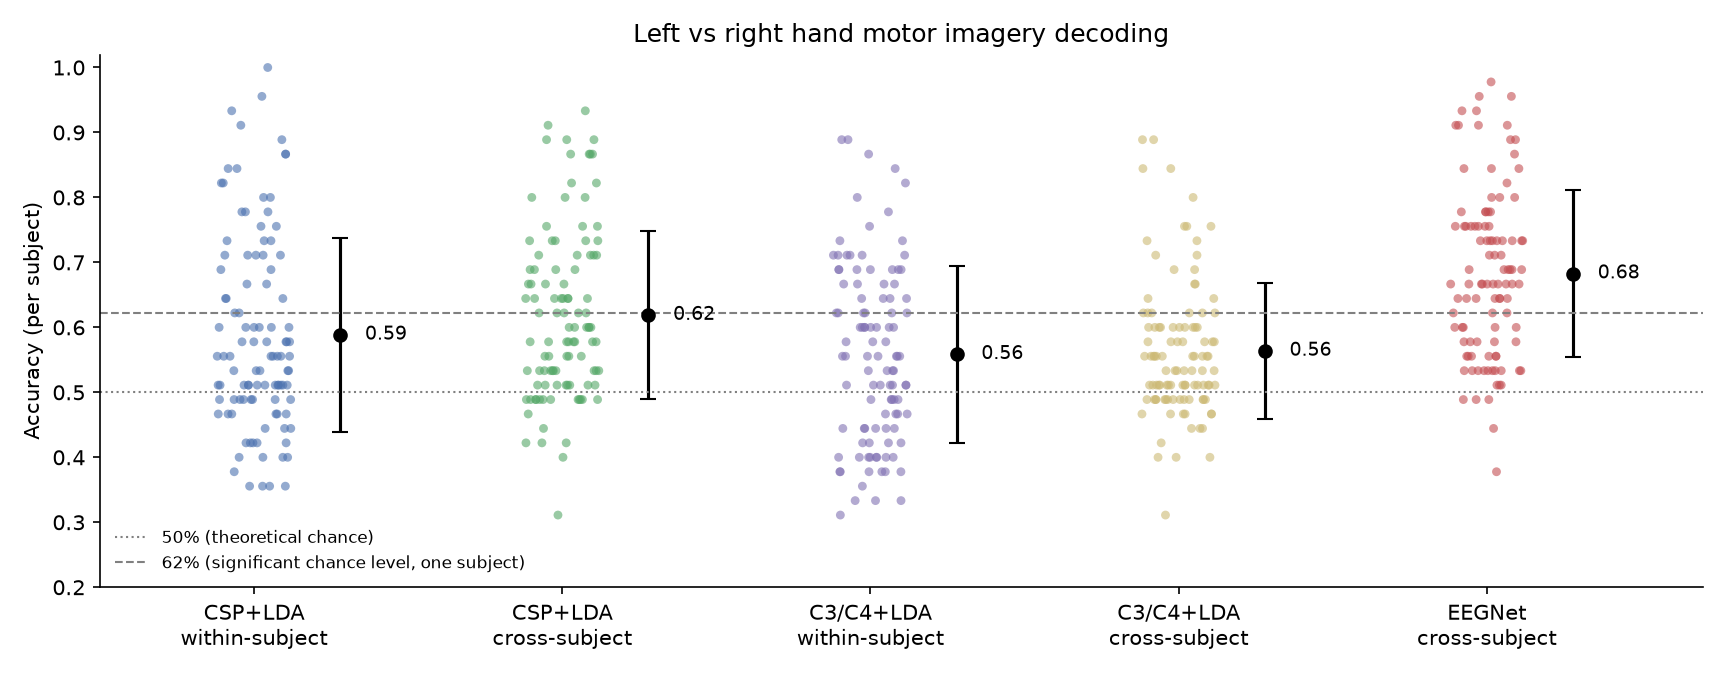
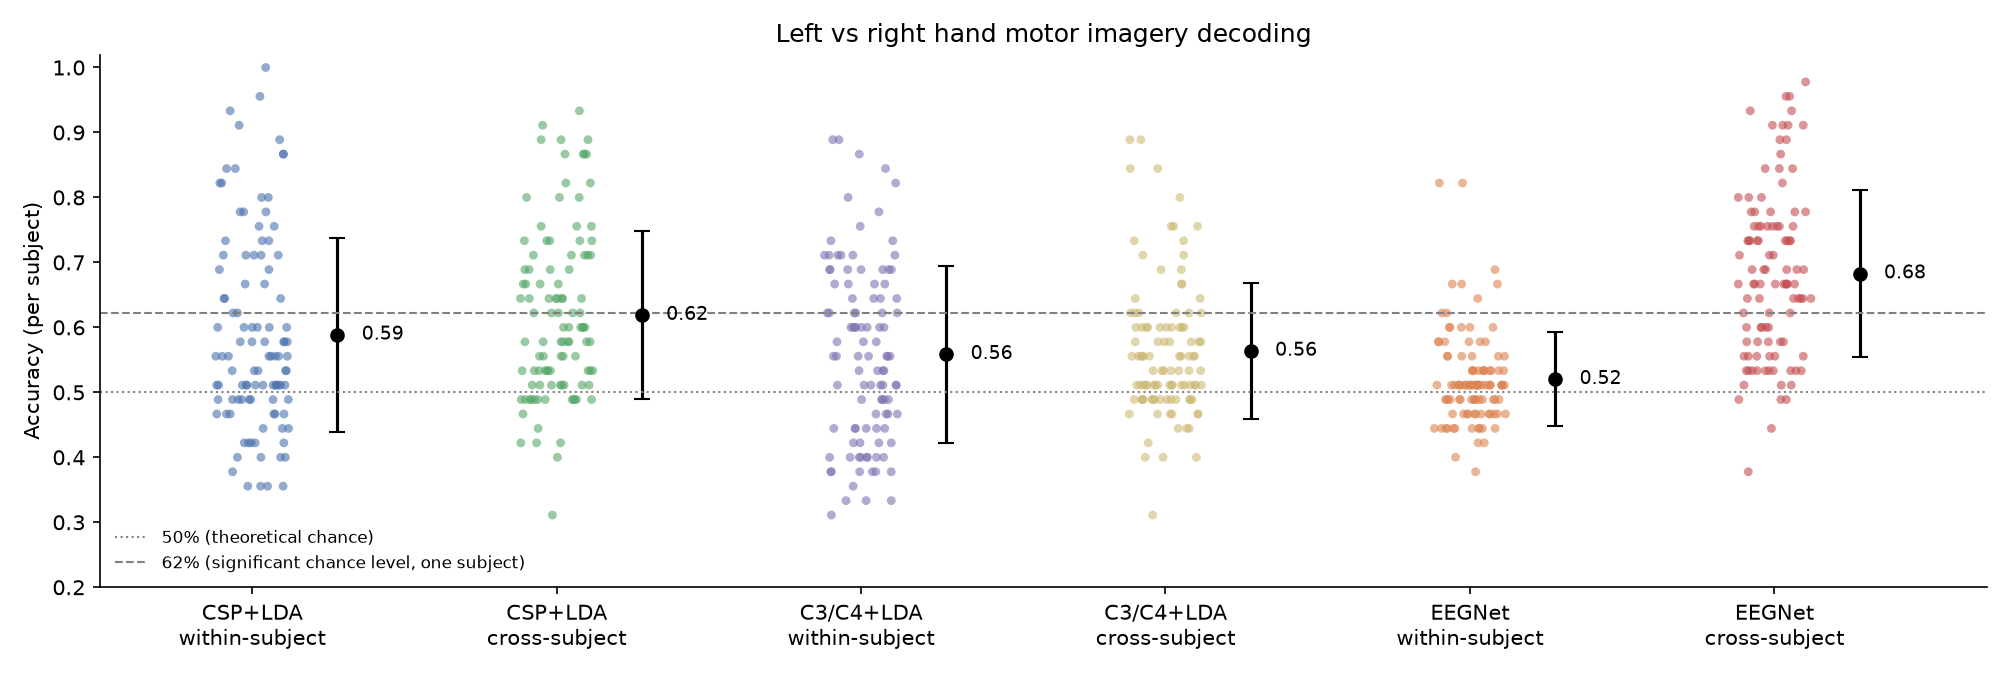
Add within-subject EEGNet and paired Wilcoxon tests between methods
EEGNet within-subject (36 training trials per fold) reaches 52.0%, below
CSP+LDA within (58.9%) and far below cross-subject EEGNet (68.3%).
New 'compare' and 'add-eegnet-within' commands; Holm-corrected Wilcoxon
signed-rank tests across 104 subjects saved in results.json.

diff --git a/src/eegdecode/cli.py b/src/eegdecode/cli.py
@@ -2,6 +2,8 @@
 
     eegdecode run --config configs/default.yaml
     eegdecode run --config configs/default.yaml --subjects 1-5 --skip-eegnet
+    eegdecode add-eegnet-within --config configs/default.yaml --subjects 1-109
+    eegdecode compare results/results.json
 """
 from __future__ import annotations
 
@@ -16,7 +18,7 @@ import numpy as np
 import yaml
 
 from .data import load_dataset, parse_subjects
-from .evaluate import clone_factory, cross_subject, within_subject
+from .evaluate import clone_factory, compare_methods, cross_subject, format_tests, within_subject
 from .models import EEGNetClassifier, make_c3c4_lda, make_csp_lda
 from .plots import plot_results
 
@@ -59,6 +61,7 @@ def run(cfg: dict, skip_eegnet: bool = False) -> dict:
                                               ev["cross_folds"])
 
     if not skip_eegnet:
+        results["eegnet_within"] = _eegnet_within(X, y, groups, cfg)
         eegnet = EEGNetClassifier(seed=cfg["seed"], **cfg["eegnet"])
         print("EEGNet, cross-subject ...")
         results["eegnet_cross"] = cross_subject(X, y, groups, clone_factory(eegnet),
@@ -71,14 +74,53 @@ def run(cfg: dict, skip_eegnet: bool = False) -> dict:
         "n_trials": len(y),
         "subjects": subjects,
         "results": results,
+        "tests": compare_methods(results),
     }
-    (out_dir / "results.json").write_text(json.dumps(summary, indent=2))
-    plot_results(results, out_dir / "accuracy_by_subject.png")
+    _save(summary, out_dir)
 
     print("\nSummary")
     for name, r in results.items():
         print(f"  {name:18s} {r['mean_accuracy']:.3f} ± {r['std_accuracy']:.3f}")
     print(f"Saved results to {out_dir}/")
+    return summary
+
+
+def _eegnet_within(X, y, groups, cfg: dict) -> dict:
+    """EEGNet trained and tested on each person separately (5-fold CV per person).
+    Settings in `eegnet_within` override `eegnet`; with only ~36 training trials,
+    Lawhern et al. (2018) suggest a higher dropout (0.5) for within-subject use."""
+    params = {**cfg["eegnet"], **cfg.get("eegnet_within", {})}
+    eegnet = EEGNetClassifier(seed=cfg["seed"], **params)
+    print("EEGNet, within-subject ...", flush=True)
+    r = within_subject(X, y, groups, clone_factory(eegnet), cfg["evaluation"]["within_folds"],
+                       cfg["seed"])
+    print(f"  mean accuracy {r['mean_accuracy']:.3f}")
+    return r
+
+
+def _save(summary: dict, out_dir: Path) -> None:
+    (out_dir / "results.json").write_text(json.dumps(summary, indent=2))
+    plot_results(summary["results"], out_dir / "accuracy_by_subject.png")
+    print("\nPaired Wilcoxon signed-rank tests across subjects")
+    print(format_tests(summary["tests"]))
+
+
+def add_eegnet_within(cfg: dict) -> dict:
+    """Add the EEGNet within-subject result to an existing results.json, without
+    re-running the other methods (which takes hours for all subjects)."""
+    import mne
+
+    mne.set_log_level("WARNING")
+    out_dir = Path(cfg.get("output_dir", "results"))
+    summary = json.loads((out_dir / "results.json").read_text())
+    subjects = parse_subjects(cfg["data"]["subjects"])
+    if subjects != summary["subjects"]:
+        raise ValueError(f"{out_dir}/results.json was made with different subjects; "
+                         "pass the same --subjects as the original run")
+    X, y, groups = load_dataset(subjects, cfg["data"])
+    summary["results"]["eegnet_within"] = _eegnet_within(X, y, groups, cfg)
+    summary["tests"] = compare_methods(summary["results"])
+    _save(summary, out_dir)
     return summary
 
 
@@ -90,13 +132,29 @@ def main(argv: list[str] | None = None) -> None:
     p.add_argument("--config", default="configs/default.yaml")
     p.add_argument("--subjects", help='Override subjects, e.g. "1-5" or "1,2,7"')
     p.add_argument("--skip-eegnet", action="store_true", help="Only run CSP+LDA (fast)")
+    w = sub.add_parser("add-eegnet-within",
+                       help="Add EEGNet within-subject results to an existing results.json")
+    w.add_argument("--config", default="configs/default.yaml")
+    w.add_argument("--subjects", help="Must match the subjects of the existing run")
+    c = sub.add_parser("compare", help="Wilcoxon tests between methods from a results.json")
+    c.add_argument("results", nargs="?", default="results/results.json")
     args = parser.parse_args(argv)
+
+    if args.command == "compare":
+        summary = json.loads(Path(args.results).read_text())
+        summary["tests"] = compare_methods(summary["results"])
+        Path(args.results).write_text(json.dumps(summary, indent=2))
+        print(format_tests(summary["tests"]))
+        return
 
     cfg = yaml.safe_load(Path(args.config).read_text())
     if args.subjects:
         cfg["data"]["subjects"] = args.subjects
     start = time.time()
-    run(cfg, skip_eegnet=args.skip_eegnet)
+    if args.command == "add-eegnet-within":
+        add_eegnet_within(cfg)
+    else:
+        run(cfg, skip_eegnet=args.skip_eegnet)
     print(f"Done in {(time.time() - start) / 60:.1f} min")
 
 

diff --git a/src/eegdecode/evaluate.py b/src/eegdecode/evaluate.py
@@ -11,7 +11,7 @@ import inspect
 from collections.abc import Callable
 
 import numpy as np
-from scipy.stats import binom
+from scipy.stats import binom, wilcoxon
 from sklearn.base import clone
 from sklearn.model_selection import GroupKFold, StratifiedKFold
 
@@ -81,3 +81,59 @@ def cross_subject(X, y, groups, make_model: Callable, n_splits: int = 5) -> dict
 def clone_factory(estimator) -> Callable:
     """Return a function that gives a fresh, unfitted copy of `estimator`."""
     return lambda: clone(estimator)
+
+
+# Pairs of methods compared across subjects. Each pair is tested only if both are in the results.
+DEFAULT_PAIRS = [
+    ("eegnet_cross", "csp_lda_cross"),
+    ("eegnet_cross", "c3c4_lda_cross"),
+    ("csp_lda_cross", "c3c4_lda_cross"),
+    ("eegnet_within", "csp_lda_within"),
+    ("csp_lda_within", "c3c4_lda_within"),
+    ("csp_lda_within", "csp_lda_cross"),
+    ("eegnet_within", "eegnet_cross"),
+]
+
+
+def compare_methods(results: dict, pairs=DEFAULT_PAIRS) -> list[dict]:
+    """Two-sided Wilcoxon signed-rank test between methods, paired by subject.
+
+    Each subject contributes one accuracy per method, so the test asks whether one
+    method is consistently better across people. p-values are Holm-corrected for the
+    number of pairs tested.
+    """
+    tests = []
+    for a, b in pairs:
+        if a not in results or b not in results:
+            continue
+        pa, pb = results[a]["per_subject"], results[b]["per_subject"]
+        subjects = sorted(set(map(int, pa)) & set(map(int, pb)))
+        xa = np.array([pa[s] if s in pa else pa[str(s)] for s in subjects])
+        xb = np.array([pb[s] if s in pb else pb[str(s)] for s in subjects])
+        diff = xa - xb
+        if len(subjects) < 2 or np.all(diff == 0):
+            stat, p = float("nan"), 1.0
+        else:
+            stat, p = wilcoxon(xa, xb, zero_method="wilcox")
+        tests.append({"a": a, "b": b, "n_subjects": len(subjects),
+                      "mean_a": float(xa.mean()), "mean_b": float(xb.mean()),
+                      "median_difference": float(np.median(diff)),
+                      "a_better_in": int((diff > 0).sum()), "b_better_in": int((diff < 0).sum()),
+                      "W": float(stat), "p": float(p)})
+    # Holm-Bonferroni correction
+    order = np.argsort([t["p"] for t in tests])
+    running = 0.0
+    for rank, i in enumerate(order):
+        running = max(running, min(1.0, (len(tests) - rank) * tests[i]["p"]))
+        tests[i]["p_holm"] = running
+    return tests
+
+
+def format_tests(tests: list[dict]) -> str:
+    lines = [f"{'A':16s} {'B':16s} {'n':>4s} {'mean A':>7s} {'mean B':>7s} "
+             f"{'A>B':>4s} {'B>A':>4s} {'W':>8s} {'p':>9s} {'p(Holm)':>9s}"]
+    for t in tests:
+        lines.append(f"{t['a']:16s} {t['b']:16s} {t['n_subjects']:4d} {t['mean_a']:7.3f} "
+                     f"{t['mean_b']:7.3f} {t['a_better_in']:4d} {t['b_better_in']:4d} "
+                     f"{t['W']:8.1f} {t['p']:9.2g} {t['p_holm']:9.2g}")
+    return "\n".join(lines)

diff --git a/tests/test_pipeline.py b/tests/test_pipeline.py
@@ -7,7 +7,13 @@ import numpy as np
 import pytest
 
 from eegdecode.data import EXCLUDED_SUBJECTS, parse_subjects
-from eegdecode.evaluate import chance_level, clone_factory, cross_subject, within_subject
+from eegdecode.evaluate import (
+    chance_level,
+    clone_factory,
+    compare_methods,
+    cross_subject,
+    within_subject,
+)
 from eegdecode.models import EEGNetClassifier, _scale, make_c3c4_lda, make_csp_lda
 
 SFREQ = 128
@@ -164,7 +170,9 @@ def test_cli_run_end_to_end(tmp_path, monkeypatch):
     assert (tmp_path / "results.json").exists()
     assert (tmp_path / "accuracy_by_subject.png").exists()
     assert set(summary["results"]) == {"csp_lda_within", "csp_lda_cross", "c3c4_lda_within",
-                                       "c3c4_lda_cross", "eegnet_cross"}
+                                       "c3c4_lda_cross", "eegnet_within", "eegnet_cross"}
+    pairs = {(t["a"], t["b"]) for t in summary["tests"]}
+    assert ("eegnet_cross", "csp_lda_cross") in pairs and ("eegnet_within", "eegnet_cross") in pairs
 
 
 def test_load_subject_preprocessing_offline(monkeypatch):
@@ -198,3 +206,20 @@ def test_load_subject_preprocessing_offline(monkeypatch):
     assert X.shape == (3 * n_trials, 64, 257)  # 2 s at 128 Hz, inclusive
     assert set(np.unique(y)) == {0, 1}
     assert X.dtype == np.float32
+
+
+def test_compare_methods_finds_consistently_better_method():
+    rng = np.random.default_rng(0)
+    base = rng.uniform(0.5, 0.7, 30)
+    results = {"csp_lda_cross": {"per_subject": {s: float(a) for s, a in enumerate(base)}},
+               "eegnet_cross": {"per_subject": {str(s): float(a + 0.05 + rng.uniform(0, 0.02))
+                                                for s, a in enumerate(base)}},
+               "c3c4_lda_cross": {"per_subject": {s: float(a + rng.normal(0, 0.05))
+                                                  for s, a in enumerate(base)}}}
+    tests = {(t["a"], t["b"]): t for t in compare_methods(results)}
+    assert set(tests) == {("eegnet_cross", "csp_lda_cross"), ("eegnet_cross", "c3c4_lda_cross"),
+                          ("csp_lda_cross", "c3c4_lda_cross")}
+    better = tests[("eegnet_cross", "csp_lda_cross")]
+    assert better["a_better_in"] == 30 and better["p_holm"] < 0.001
+    assert tests[("csp_lda_cross", "c3c4_lda_cross")]["p_holm"] > 0.05
+    assert all(t["p_holm"] >= t["p"] for t in tests.values())

diff --git a/src/eegdecode/plots.py b/src/eegdecode/plots.py
@@ -14,11 +14,12 @@ LABELS = {
     "csp_lda_cross": "CSP+LDA\ncross-subject",
     "c3c4_lda_within": "C3/C4+LDA\nwithin-subject",
     "c3c4_lda_cross": "C3/C4+LDA\ncross-subject",
+    "eegnet_within": "EEGNet\nwithin-subject",
     "eegnet_cross": "EEGNet\ncross-subject",
 }
 COLORS = {"csp_lda_within": "#4C72B0", "csp_lda_cross": "#55A868",
           "c3c4_lda_within": "#8172B3", "c3c4_lda_cross": "#CCB974",
-          "eegnet_cross": "#C44E52"}
+          "eegnet_within": "#DD8452", "eegnet_cross": "#C44E52"}
 
 
 def plot_results(results: dict, path: str | Path) -> None:

diff --git a/docs/REPORT.md b/docs/REPORT.md
@@ -20,9 +20,9 @@ Preprocessing used MNE-Python (Gramfort et al., 2013). I band-pass filtered at 7
 
 **C3/C4 + LDA.** LDA classifies one feature: the log-power difference between electrodes C3 and C4, which sit over the left and right hand areas of the motor cortex. It has no learned spatial filters, so it shows how far known physiology goes on its own. I added it after a 5-subject pilot suggested it might do well, and before running the larger experiments.
 
-**EEGNet-8,2** (Lawhern et al., 2018). A temporal convolution learns frequency filters and a depthwise convolution learns spatial filters for each of them. A separable convolution then combines these features over time. It was built with Keras 3 on PyTorch and trained for a fixed 100 epochs on the CPU, with dropout of 0.25. Inputs were divided by one scale factor computed on the training data, which keeps the power differences between channels that carry the signal.
+**EEGNet-8,2** (Lawhern et al., 2018). A temporal convolution learns frequency filters and a depthwise convolution learns spatial filters for each of them. A separable convolution then combines these features over time. It was built with Keras 3 on PyTorch and trained for a fixed 100 epochs on the CPU, with dropout of 0.25 (0.5 for within-subject, where each model has only 36 training trials). Inputs were divided by one scale factor computed on the training data, which keeps the power differences between channels that carry the signal.
 
-**Evaluation.** Within-subject evaluation used 5-fold stratified cross-validation on each person's trials, so each model trained on 36 trials. Cross-subject evaluation used 5-fold `GroupKFold` by subject, so no person appears in both training and test data within a fold. A test verifies this. Splitting by trial instead would let the model see the test person during training and would inflate accuracy. EEGNet was only evaluated cross-subject.
+**Evaluation.** Within-subject evaluation used 5-fold stratified cross-validation on each person's trials, so each model trained on 36 trials. Cross-subject evaluation used 5-fold `GroupKFold` by subject, so no person appears in both training and test data within a fold. A test verifies this. Splitting by trial instead would let the model see the test person during training and would inflate accuracy. Methods were compared with paired Wilcoxon signed-rank tests across subjects, Holm-corrected over 7 comparisons.
 
 **Chance level.** With few trials, guessing can score well above 50% by luck. Using a binomial test at p < 0.05 (Combrisson & Jerbi, 2015), one subject with 45 trials must exceed about 62%, and a method's accuracy over all 4,680 trials must exceed 51.2%. I compared methods per subject with Wilcoxon signed-rank tests.
 
@@ -32,7 +32,7 @@ Preprocessing used MNE-Python (Gramfort et al., 2013). I band-pass filtered at 7
 |---|---|---|---|---|---|
 | CSP + LDA | 58.9 ± 14.9% | 61.9 ± 1.2% | 62.4% | 33 of 104 | 43 of 104 |
 | C3/C4 + LDA | 55.9 ± 13.6% | 56.4 ± 2.4% | 56.6% | 31 of 104 | 18 of 104 |
-| EEGNet | not run | **68.3 ± 5.4%** | 69.0% | not run | 67 of 104 |
+| EEGNet | 52.0 ± 7.2% | **68.3 ± 5.4%** | 69.0% | 7 of 104 | 67 of 104 |
 
 Within-subject ± is the spread across people. Cross-subject ± is the spread across the 5 folds.
 
@@ -42,11 +42,13 @@ All three cross-subject accuracies are above chance. For people it had never see
 
 There was no drop from within- to cross-subject accuracy. CSP + LDA was 3.0 points higher cross-subject (p = 0.004), and C3/C4 + LDA was 0.5 points higher (p = 0.58).
 
+EEGNet trained within-subject was close to chance: 52.0 ± 7.2% (range 38–82%; 52.7% on subjects 21–109), with only 7 of 104 people above 62%. It was worse than within-subject CSP + LDA for 67 people and better for 32 (p_Holm < 0.0001), and worse than cross-subject EEGNet for 90 of 104 people (p_Holm < 10⁻¹⁵). Its training accuracy was 0.8–0.95, so with 36 trials it memorized rather than learned.
+
 Results depended strongly on the amount of training data. In an earlier run on only 20 subjects, EEGNet scored 53.6%, level with CSP + LDA (54.8%) and C3/C4 + LDA (57.0%). In the full run, those same 20 people averaged 65.3% with EEGNet, which was then trained on about 83 people rather than 16. The gap between final training accuracy and test accuracy fell from about 30 points to about 9.
 
 ## 5. Discussion
 
-**EEGNet generalized best, but only with enough people.** The clearest finding is the dependence on data. With 16 training people, EEGNet mostly memorized them. With about 83, it outperformed both baselines. I did not test why it wins, but one plausible explanation is that its learned frequency and spatial filters can capture patterns shared across people that a fixed 7–30 Hz band and 6 CSP filters miss. This should be tested rather than assumed, and I did not inspect the learned filters.
+**EEGNet generalized best, but only with enough people.** The clearest finding is the dependence on data. With 16 training people, EEGNet mostly memorized them. With about 83, it outperformed both baselines. The within-subject run makes the same point from the other side: trained on a single person's 36 trials, EEGNet fell to 52%, below CSP + LDA, while the same network trained on about 83 people reached 68% on new people. I did not test why it wins, but one plausible explanation is that its learned frequency and spatial filters can capture patterns shared across people that a fixed 7–30 Hz band and 6 CSP filters miss. This should be tested rather than assumed, and I did not inspect the learned filters.
 
 **Within-subject accuracy was held back by the small amount of data.** Models trained on other people beat models trained on the person themselves, but this does not show that calibration is useless. Within-subject models had only 36 training trials, against thousands for cross-subject models. A fairer test of calibration would be to fine-tune a cross-subject model with a few trials from the new person.
 
@@ -59,7 +61,7 @@ Results depended strongly on the amount of training data. In an earlier run on o
 ## 6. Limitations and next steps
 
 - **One seed.** EEGNet ran with one random seed, and its folds ranged from 62% to 76%. The ranking looks solid, but the exact 68.3% is less certain. Repeating with several seeds is the most useful next check.
-- **Not a like-for-like within-subject comparison.** EEGNet was not run within-subject, so its within- and cross-subject scores cannot be compared.
+- **Within-subject EEGNet had very little data.** 36 trials per fold is far below what the network needs; data augmentation or pretraining on other people (then fine-tuning) would be the fair within-subject test.
 - **Training length.** The fixed 100 epochs came from a diagnosis on subjects 1–20. Subjects 21–109 played no part in that and give the cleaner estimate (69.0%). Those subjects' test folds still trained partly on subjects 1–20.
 - **Signal quality and scope.** There was no artifact removal (eye blinks, muscle), one fixed frequency band, only 2 classes, and 45 trials per person, so per-subject estimates are noisy.
 - **Next steps.** Fine-tune the cross-subject EEGNet with a few trials from each new person, try ICA or autoreject for artifact removal, compare against filter-bank CSP and Riemannian classifiers, and inspect EEGNet's learned filters to see whether they match the mu and beta rhythms over C3 and C4.

diff --git a/README.md b/README.md
@@ -21,11 +21,25 @@ All 104 usable subjects (4,680 trials), from `eegdecode run --config configs/def
 |---|---|---|
 | CSP + LDA | 58.9 ± 14.9% | 61.9 ± 1.2% |
 | C3/C4 + LDA | 55.9 ± 13.6% | 56.4 ± 2.4% |
-| EEGNet | — | **68.3 ± 5.4%** |
+| EEGNet | 52.0 ± 7.2% | **68.3 ± 5.4%** |
 
 ![Per-subject accuracy](results/accuracy_by_subject.png)
 
 **Chance level.** With about 45 trials per person, guessing can reach well above 50% by luck. A single subject's accuracy must exceed about 62% to be significant at p < 0.05 (binomial test, Combrisson & Jerbi, 2015). The figure shows both lines.
+
+**Paired tests.** Each pair of methods was compared with a Wilcoxon signed-rank test across the 104 subjects, with Holm correction for 7 comparisons (`eegdecode compare`).
+
+| Comparison | Mean A vs B | A better / B better (people) | p (Holm) |
+|---|---|---|---|
+| EEGNet vs CSP + LDA, cross | 68.3 vs 61.9% | 68 / 29 | 2.2 × 10⁻⁵ |
+| EEGNet vs C3/C4 + LDA, cross | 68.3 vs 56.4% | 80 / 18 | 1.7 × 10⁻¹¹ |
+| CSP + LDA vs C3/C4 + LDA, cross | 61.9 vs 56.4% | 67 / 29 | 4.4 × 10⁻⁵ |
+| EEGNet vs CSP + LDA, within | 52.0 vs 58.9% | 32 / 67 | 3.2 × 10⁻⁵ |
+| CSP + LDA vs C3/C4 + LDA, within | 58.9 vs 55.9% | 60 / 39 | 0.023 |
+| CSP + LDA, within vs cross | 58.9 vs 61.9% | 35 / 64 | 0.0089 |
+| EEGNet, within vs cross | 52.0 vs 68.3% | 10 / 90 | 8.6 × 10⁻¹⁶ |
+
+**EEGNet within-subject.** Trained on one person's 36 trials per fold (dropout 0.5), EEGNet is close to chance: 52.0%, with only 7 of 104 people above the 62% threshold. It fits its training trials (training accuracy about 0.8–0.95) but does not generalize to that person's other trials. CSP + LDA, with far fewer parameters, does better with so little data. So the deep network needs many people's data, not one person's.
 
 **What I found:** EEGNet was the best decoder for unseen people, at 68.3% across 104 subjects, against 61.9% for CSP + LDA and 56.4% for a simple C3/C4 power comparison. 67 of 104 people were individually above chance with EEGNet. Accuracy did not drop from within- to cross-subject for CSP, probably because within-subject models had only 36 training trials per fold. What surprised me was how much EEGNet depended on data: with 20 subjects it was no better than the baselines. Getting there also meant fixing early stopping, which had been keeping a near-untrained model and left EEGNet at chance.
 
